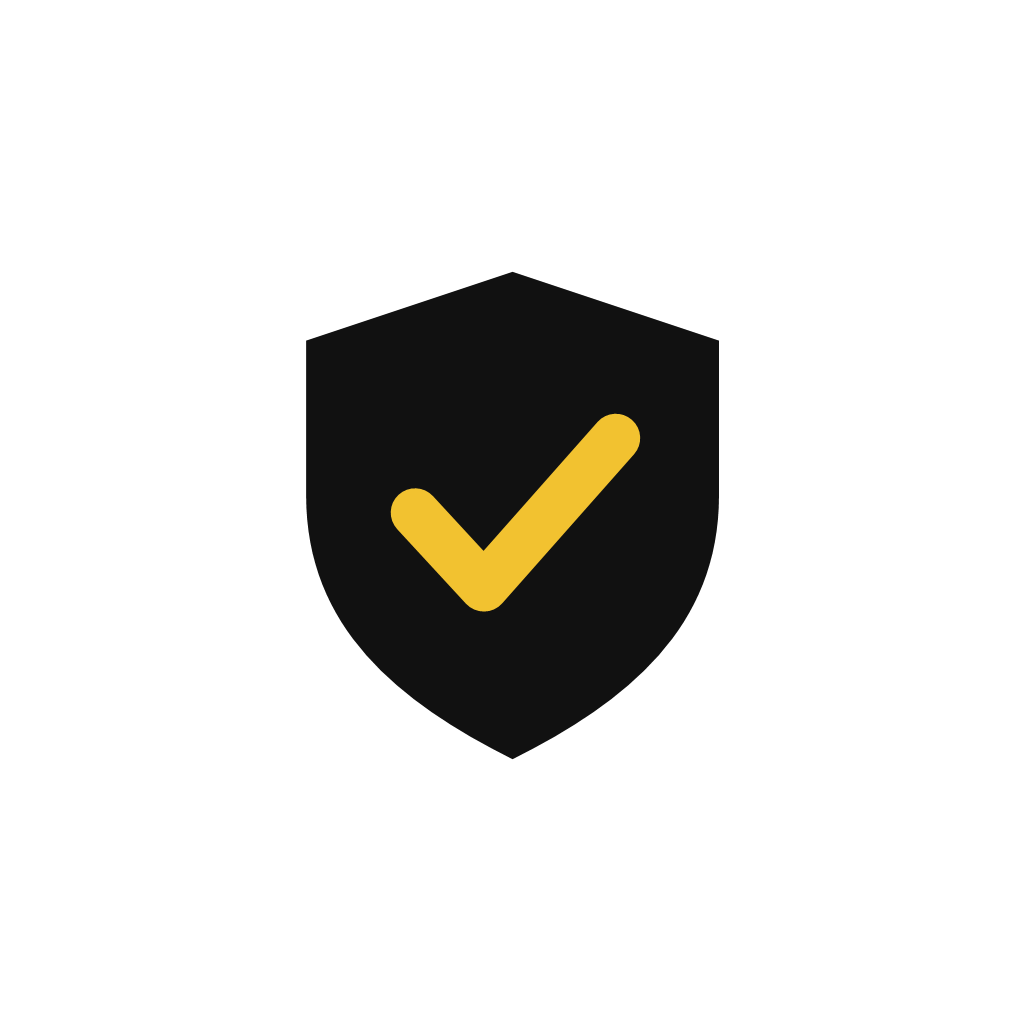
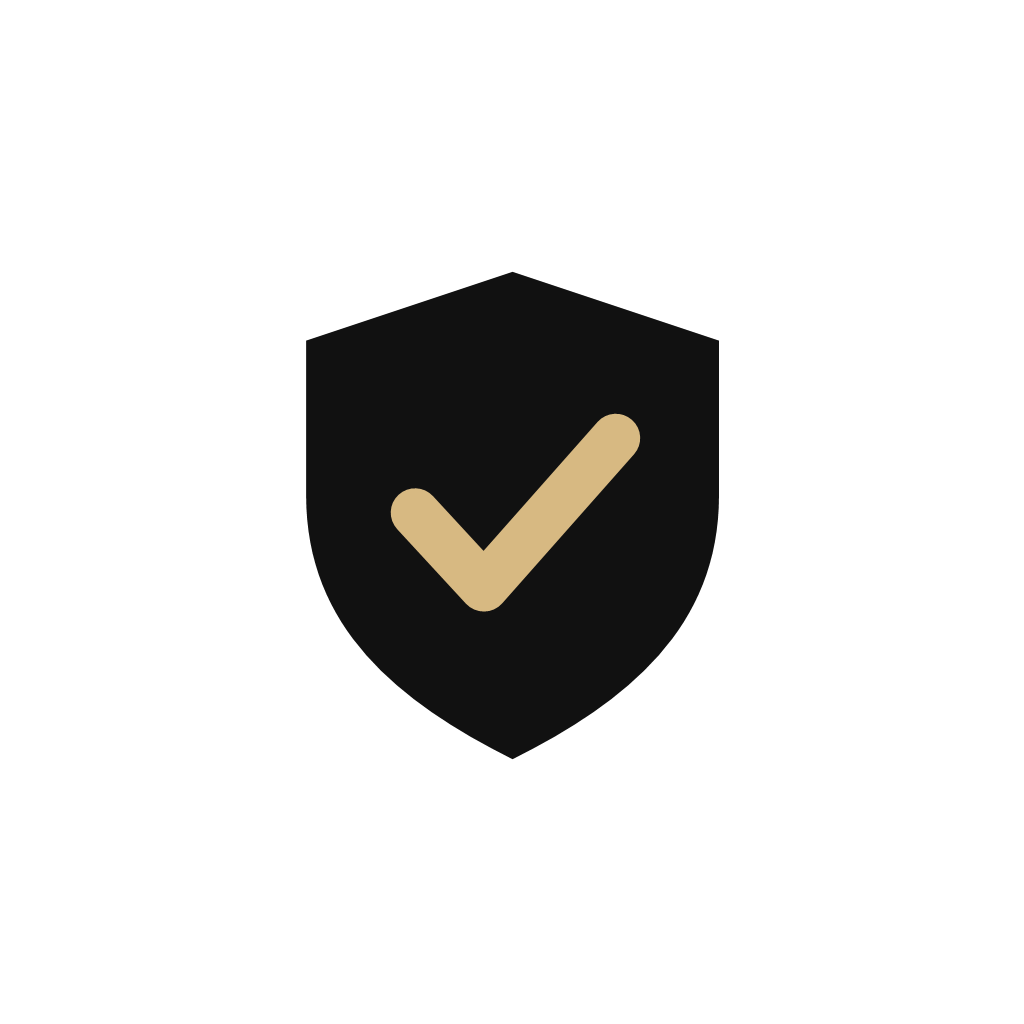
C: notice style: Soft Sand accent instead of yellow (dark ochre for Be careful), dates in French and Kreol, Paste and Check side by side, online card in French and Kreol

Changed region(s): [[0.375, 0.4062, 0.625, 0.5938]]

diff --git a/src/constants/online-texts.ts b/src/constants/online-texts.ts
@@ -1,0 +1,53 @@
+// French and Kreol for what our server says on the "Online check" card.
+// The server answers in English; these tables translate its fixed sentences, by their id.
+// (Kreol is a draft: it needs a native speaker's check.)
+
+import type { Language } from '@/constants/strings';
+
+type Two = { fr: string; mfe: string };
+
+/** Warning signs, by the server's tactic id. */
+const TACTICS: Record<string, Two> = {
+  blocklisted_link: { fr: "Lien sur une liste de sites dangereux", mfe: "Lien lor enn lis sit danzere" },
+  abused_number: { fr: "Numéro de téléphone signalé récemment pour abus", mfe: "Nimero telefonn ki finn signale resaman" },
+  community_confirmed: { fr: "Signalé par plusieurs téléphones", mfe: "Signale par plizir telefonn" },
+  community_pending: { fr: "Signalé par un autre téléphone (pas encore confirmé)", mfe: "Signale par enn lot telefonn (pankor konfirme)" },
+  new_website: { fr: "Site web très récent", mfe: "Sit web bien nouvo" },
+  unregistered_website: { fr: "Adresse de site web non enregistrée", mfe: "Ladres sit web pa anrezistre" },
+  hidden_link: { fr: "Un lien court cache la vraie adresse", mfe: "Enn lien kourt kasiet vre ladres la" },
+  ip_link: { fr: "Le lien utilise un simple numéro au lieu d'un nom", mfe: "Lien la servi enn nimero olie enn non" },
+  reported_contact: { fr: "Lien ou numéro vu dans des messages signalés par d'autres téléphones", mfe: "Lien ou nimero ki finn trouve dan mesaz ki lezot telefonn inn signale" },
+  voip_number: { fr: "Numéro de téléphone Internet (VOIP)", mfe: "Nimero telefonn Internet (VOIP)" },
+};
+
+/** The card's heading and sentence, by the server's category (its English heading). */
+const CATEGORIES: Record<string, { label: Two; summary: Two }> = {
+  'Known harmful link': {
+    label: { fr: "Lien dangereux connu", mfe: "Lien danzere ki nou kone" },
+    summary: { fr: "Un lien de ce message figure sur une liste publique de sites dangereux. Ne l'ouvrez pas, et ne payez pas.", mfe: "Enn lien dan sa mesaz la lor enn lis piblik sit danzere. Pa ouver li, ek pa peye." },
+  },
+  'Reported by other phones': {
+    label: { fr: "Signalé par d'autres téléphones", mfe: "Signale par lezot telefonn" },
+    summary: { fr: "Plusieurs téléphones ont signalé ce message (ou un message presque identique). Ne payez pas ; appelez le numéro officiel.", mfe: "Plizir telefonn inn signal sa mesaz la (ou enn preske parey). Pa peye; apel nimero ofisiel la." },
+  },
+  'Risky phone number': {
+    label: { fr: "Numéro de téléphone à risque", mfe: "Nimero telefonn a risk" },
+    summary: { fr: "Un numéro de ce message a été signalé récemment pour abus. Ne le rappelez pas ; utilisez le numéro officiel.", mfe: "Enn nimero dan sa mesaz la finn signale resaman. Pa reapel li; servi nimero ofisiel la." },
+  },
+  'Signs worth checking': {
+    label: { fr: "Signes à vérifier", mfe: "Bann sign pou verifye" },
+    summary: { fr: "Les vérifications en ligne ont trouvé des signes à vérifier avant de payer ou d'ouvrir un lien.", mfe: "Bann verifikasion anlinn inn trouv bann sign pou verifye avan ou peye ou ouver enn lien." },
+  },
+};
+
+/** A warning sign's name in the app's language (the server's English name if we have no translation). */
+export function onlineTacticLabel(id: string, english: string, language: Language): string {
+  return language === 'en' ? english : (TACTICS[id]?.[language] ?? english);
+}
+
+/** The card's heading and sentence in the app's language. */
+export function onlineCategory(category: string, summary: string, language: Language): { label: string; summary: string } {
+  const known = CATEGORIES[category];
+  if (language === 'en' || !known) return { label: category, summary };
+  return { label: known.label[language], summary: known.summary[language] };
+}

diff --git a/src/constants/theme.ts b/src/constants/theme.ts
@@ -3,7 +3,7 @@
 import type { Level } from '@/engine';
 
 /**
- * "Notice style": black, white and yellow, like an official notice. One look for everyone,
+ * "Notice style": black, white and one calm sand accent ("Soft Sand"), like an official notice. One look for everyone,
  * so the light and dark entries are the same (strong contrast in any lighting).
  */
 const NOTICE = {
@@ -11,32 +11,32 @@ const NOTICE = {
   textSecondary: '#5C5C5C',
   background: '#FFFFFF',
   backgroundElement: '#FFFFFF',
-  backgroundSelected: '#F2C230',
+  backgroundSelected: '#D7B982',
   border: '#111111', // strong rule (inputs, outlined buttons, section headings)
   hairline: '#DADAD4', // thin rule between rows
-  primary: '#111111', // main buttons: black, with yellow text
+  primary: '#111111', // main buttons: black, with sand text
   primarySoft: '#FFFFFF',
-  onPrimary: '#F2C230',
-  accent: '#F2C230', // the yellow band, number squares, highlights
-  onAccent: '#111111', // text on yellow (the same in night mode)
-  highlight: '#F2C230',
+  onPrimary: '#D7B982',
+  accent: '#D7B982', // the sand band, number squares, highlights
+  onAccent: '#111111', // text on the accent (the same in night mode)
+  highlight: '#D7B982',
 } as const;
 
-/** Night mode: the same notice, inverted. Black page, white text, yellow buttons. */
+/** Night mode: the same notice, inverted. Near-black page, warm white text, sand buttons. */
 const NOTICE_NIGHT = {
-  text: '#FFFFFF',
+  text: '#F5F2EB',
   textSecondary: '#B9B9B2',
-  background: '#111111',
-  backgroundElement: '#111111',
-  backgroundSelected: '#F2C230',
-  border: '#FFFFFF',
+  background: '#191815',
+  backgroundElement: '#191815',
+  backgroundSelected: '#D7B982',
+  border: '#F5F2EB',
   hairline: '#3A3A36',
-  primary: '#F2C230', // main buttons: yellow, with black text
-  primarySoft: '#111111',
+  primary: '#D7B982', // main buttons: sand, with black text
+  primarySoft: '#191815',
   onPrimary: '#111111',
-  accent: '#F2C230',
+  accent: '#D7B982',
   onAccent: '#111111',
-  highlight: '#F2C230',
+  highlight: '#D7B982',
 } as const;
 
 export const Colors = { light: NOTICE, dark: NOTICE_NIGHT } as const;
@@ -46,7 +46,7 @@ export type ThemeColor = keyof typeof Colors.light;
 /** Banner colours per result level. NONE is black, never green: "no signs found" is not "safe". */
 export const LevelColors: Record<Level, { background: string; text: string }> = {
   STOP: { background: '#B3261E', text: '#FFFFFF' },
-  CAREFUL: { background: '#F2C230', text: '#111111' },
+  CAREFUL: { background: '#946200', text: '#FFFFFF' },
   NONE: { background: '#111111', text: '#FFFFFF' },
 };
 

diff --git a/src/app/(tabs)/index.tsx b/src/app/(tabs)/index.tsx
@@ -191,14 +191,6 @@ export default function ScanScreen() {
             },
           ]}
         />
-        {/* One tap instead of long-press → Paste in the box. */}
-        <Pressable
-          accessibilityRole="button"
-          onPress={paste}
-          style={({ pressed }) => [styles.paste, { borderColor: theme.border, opacity: pressed ? 0.7 : 1 }]}>
-          <Ionicons name="clipboard-outline" size={18 * scale} color={theme.primary} />
-          <Text style={{ color: theme.primary, fontSize: FontSize.small * scale, fontWeight: '600' }}>{t('pasteButton')}</Text>
-        </Pressable>
         {/* Granny mode: say the message out loud instead of typing it. */}
         {granny && <Button kind="secondary" title={listening ? t('sttStop') : t('sttSpeak')} onPress={speakMessage} />}
         {/* The error sits under its box and is read out by screen readers. */}
@@ -207,7 +199,20 @@ export default function ScanScreen() {
         <TourTip step={2} hideNext>
           {t('tourCheck')}
         </TourTip>
-        <Button title={t('scanButton')} onPress={check} />
+        {/* Paste (one tap instead of long-press → Paste) next to Check. Granny mode stacks them: bigger targets. */}
+        <View style={granny ? styles.actionsStacked : styles.actions}>
+          <Pressable
+            accessibilityRole="button"
+            accessibilityLabel={t('pasteButton')}
+            onPress={paste}
+            style={({ pressed }) => [styles.paste, { borderColor: theme.border, opacity: pressed ? 0.7 : 1 }]}>
+            <Ionicons name="clipboard-outline" size={18 * scale} color={theme.primary} />
+            <Text style={{ color: theme.primary, fontSize: FontSize.body * scale, fontWeight: '700' }}>{granny ? t('pasteButton') : t('pasteShort')}</Text>
+          </Pressable>
+          <View style={granny ? undefined : styles.grow}>
+            <Button title={t('scanButton')} onPress={check} />
+          </View>
+        </View>
       </View>
 
       {/* Before paying: the other lookups are in the tabs below. */}
@@ -249,12 +254,15 @@ const styles = StyleSheet.create({
     fontSize: FontSize.body,
   },
   field: { gap: Spacing.two },
+  actions: { flexDirection: 'row', gap: 10, alignItems: 'stretch' },
+  actionsStacked: { gap: Spacing.two },
+  grow: { flex: 1 },
   paste: {
     flexDirection: 'row',
     alignItems: 'center',
-    alignSelf: 'flex-start',
+    justifyContent: 'center',
     gap: Spacing.two,
-    minHeight: 44,
+    minHeight: 58,
     paddingHorizontal: Spacing.three,
     borderWidth: 2,
     borderRadius: Radius,

diff --git a/src/components/online-check.tsx b/src/components/online-check.tsx
@@ -4,6 +4,7 @@
 import { useState } from 'react';
 
 import { Button, Card, Label, Status } from '@/components/ui';
+import { onlineCategory, onlineTacticLabel } from '@/constants/online-texts';
 import { t } from '@/constants/strings';
 import { reportOnline, type OnlineResult } from '@/lib/online';
 import { useStore } from '@/lib/store';
@@ -12,7 +13,7 @@ import { useStore } from '@/lib/store';
 export type OnlineState = 'loading' | 'offline' | 'off' | OnlineResult;
 
 export function OnlineCheck({ state, text }: { state: OnlineState; text: string }) {
-  const { serverUrl } = useStore();
+  const { serverUrl, language } = useStore();
   const [reportMessage, setReportMessage] = useState('');
   const [sending, setSending] = useState(false);
 
@@ -46,6 +47,8 @@ export function OnlineCheck({ state, text }: { state: OnlineState; text: string 
 
   const reports = state.verification?.community_reports ?? 0;
   const intelFindings = state.intel?.findings ?? [];
+  // The server answers in English: show its fixed sentences in the app's language.
+  const category = onlineCategory(state.category_label, state.summary, language);
   // Nothing found online (e.g. an ordinary link): one short line, no score and no advice about paying.
   const nothing = state.risk_score === 0 && state.tactics.length === 0 && intelFindings.length === 0 && reports === 0;
 
@@ -57,15 +60,16 @@ export function OnlineCheck({ state, text }: { state: OnlineState; text: string 
       ) : (
         <>
           <Status>
-            {t('onlineScore')}: {state.risk_score}/100 · {state.category_label}
+            {t('onlineScore')}: {state.risk_score}/100 · {category.label}
           </Status>
-          <Label>{state.summary}</Label>
+          <Label>{category.summary}</Label>
         </>
       )}
 
       {state.tactics.map((tactic) => (
         <Label key={tactic.tactic} variant="small">
-          • {tactic.label} (+{tactic.contribution}){tactic.details.length > 0 ? `: ${tactic.details.join(' ')}` : ''}
+          • {onlineTacticLabel(tactic.tactic, tactic.label, language)} (+{tactic.contribution})
+          {language === 'en' && tactic.details.length > 0 ? `: ${tactic.details.join(' ')}` : ''}
         </Label>
       ))}
 

diff --git a/src/lib/time.ts b/src/lib/time.ts
@@ -1,19 +1,31 @@
 // Dates are saved in ISO format (UTC). On screen we show the phone's local time, e.g. "13 Nov 2026, 20:49".
 
-const MONTHS = ['Jan', 'Feb', 'Mar', 'Apr', 'May', 'Jun', 'Jul', 'Aug', 'Sep', 'Oct', 'Nov', 'Dec'];
+import { getLanguage } from '@/constants/strings';
+
+// Short month names in each language of the app.
+const MONTH_NAMES = {
+  en: ['Jan', 'Feb', 'Mar', 'Apr', 'May', 'Jun', 'Jul', 'Aug', 'Sep', 'Oct', 'Nov', 'Dec'],
+  fr: ['janv.', 'févr.', 'mars', 'avr.', 'mai', 'juin', 'juil.', 'août', 'sept.', 'oct.', 'nov.', 'déc.'],
+  mfe: ['Zan', 'Fev', 'Mars', 'Avr', 'Me', 'Zin', 'Zil', 'Out', 'Sept', 'Okt', 'Nov', 'Des'],
+};
+
+/** The month names for the language the app is in now. */
+function months(): string[] {
+  return MONTH_NAMES[getLanguage()] ?? MONTH_NAMES.en;
+}
 
 export function localDateTime(iso: string | null): string {
   if (!iso) return '';
   const d = new Date(iso);
   if (isNaN(d.getTime())) return '';
   const two = (n: number) => String(n).padStart(2, '0');
-  return `${d.getDate()} ${MONTHS[d.getMonth()]} ${d.getFullYear()}, ${two(d.getHours())}:${two(d.getMinutes())}`;
+  return `${d.getDate()} ${months()[d.getMonth()]} ${d.getFullYear()}, ${two(d.getHours())}:${two(d.getMinutes())}`;
 }
 
 /** "2026-11-13" → "13 Nov 2026" (source dates). Anything else is shown as it is. */
 export function prettyDay(iso: string): string {
   const m = /^(\d{4})-(\d{2})-(\d{2})$/.exec(iso.trim());
   if (!m) return iso;
-  const month = MONTHS[Number(m[2]) - 1];
+  const month = months()[Number(m[2]) - 1];
   return month ? `${Number(m[3])} ${month} ${m[1]}` : iso;
 }

diff --git a/src/constants/strings.ts b/src/constants/strings.ts
@@ -10,6 +10,7 @@ const en = {
 
   languageLabel: 'Language',
   settingsTitle: 'Settings',
+  pasteShort: 'Paste',
   bandTag: 'Check before you pay',
   welcomeTitle: 'Set up Verifye',
   welcomeHint: 'Choose what suits you. You can change these any time in Settings.',
@@ -189,6 +190,7 @@ export type Language = 'en' | 'fr' | 'mfe';
 
 const fr: Partial<Record<StringKey, string>> = {
   settingsTitle: "Réglages",
+  pasteShort: "Coller",
   bandTag: "Vérifiez avant de payer",
   welcomeTitle: "Réglez Verifye",
   welcomeHint: "Choisissez ce qui vous convient. Vous pouvez changer cela à tout moment dans les Réglages.",
@@ -355,6 +357,7 @@ const fr: Partial<Record<StringKey, string>> = {
 const mfe: Partial<Record<StringKey, string>> = {
   // Welcome page, speech, and the sources (draft Kreol, needs Paveesh's check)
   settingsTitle: "Reglaz",
+  pasteShort: "Kole",
   bandTag: "Verifye avan ou peye",
   welcomeTitle: "Regle Verifye",
   welcomeHint: "Swazir seki bon pou ou. Ou kapav sanz sa ninport ki ler dan Reglaz.",

diff --git a/src/widget/verifye-widget.tsx b/src/widget/verifye-widget.tsx
@@ -31,21 +31,21 @@ const PALETTE: Record<
 > = {
   light: {
     surface: '#FFFFFF',
-    inner: '#F2C230',
+    inner: '#D7B982',
     text: '#111111',
     muted: '#5C5C5C',
     primary: '#111111',
-    onPrimary: '#F2C230',
+    onPrimary: '#D7B982',
     alert: '#111111',
     on: '#1A7F4B',
     off: '#8A8D93',
   },
   dark: {
     surface: '#111111',
-    inner: '#F2C230',
+    inner: '#D7B982',
     text: '#FFFFFF',
     muted: '#B9B9B2',
-    primary: '#F2C230',
+    primary: '#D7B982',
     onPrimary: '#111111',
     alert: '#111111',
     on: '#5FD39A',

diff --git a/src/components/motion.tsx b/src/components/motion.tsx
@@ -46,7 +46,7 @@ export function Appear({ play, index = 0, children }: { play: boolean; index?: n
 }
 
 const SWEEP_MS = 700; // the whole scan stays under 800 ms
-const LINE_COLOR = '#F2C230';
+const LINE_COLOR = '#D7B982';
 
 /**
  * The scanner. Shown on top of the Check tab while `visible`; calls `onDone` when the sweep ends
